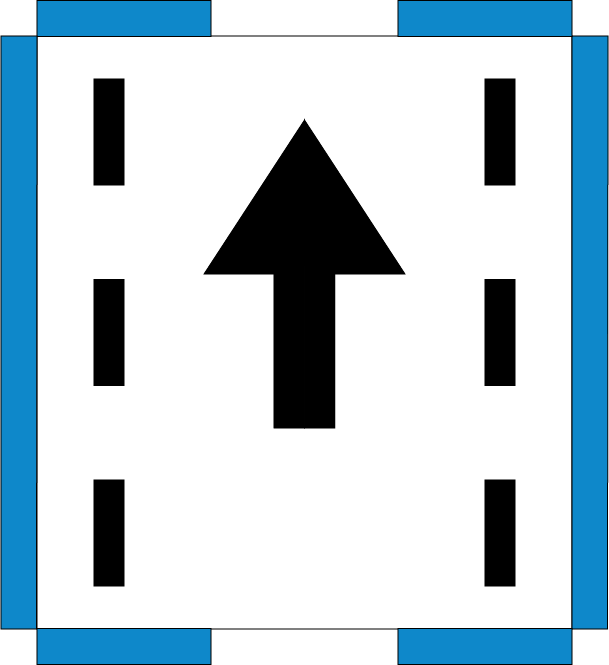
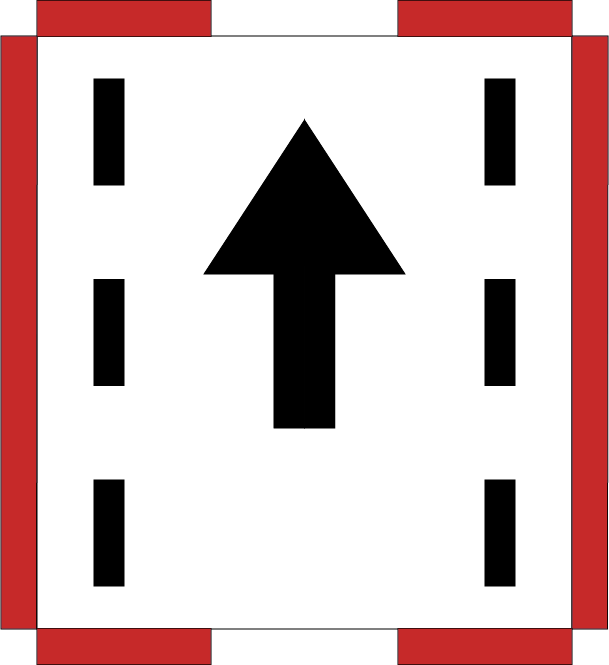
colours

Changed region(s): [[0.6552, 0.0, 0.9984, 1.0], [0.0, 0.0, 0.3744, 1.0]]

diff --git a/www/Dashboard.css b/www/Dashboard.css
@@ -13,7 +13,7 @@
 }
 
 body {
-    background-color: #ADADAD
+    background-color: #161616
 }
 
 .blink {
@@ -28,7 +28,7 @@ body {
 }
 
 .topPanel div {
-    background-color: #101828;
+    background-color: #161616;
 }
 
 .topPanel li {
@@ -39,8 +39,8 @@ body {
 }
 
 .topPanel ul {
-    background-color: #101828;
-    border-bottom: medium solid #3565bf;
+    background-color: #161616;
+    border-bottom: medium solid #C62828;
 }
 
 ul {
@@ -48,8 +48,8 @@ ul {
 }
 
 .dropdown {
-    background-color: #101828;
-    color: #3565bf;
+    background-color: #161616;
+    color: #C62828;
     border-radius: 0.1vw;
 }
 
@@ -59,12 +59,12 @@ ul {
     height: 5vw;
     width: 8vw;
     background: white;
-    color: #3565bf;
+    color: #C62828;
     text-align: center;
     line-height: 2vw;
     cursor: pointer;
-    border: 0vw solid #3565bf;
-    border-bottom: 1vw solid #3565bf;
+    border: 0vw solid #C62828;
+    border-bottom: 1vw solid #C62828;
     opacity: 0.85;
     margin: 0.5vw 0vw;
 }
@@ -80,8 +80,8 @@ ul {
 .timer {
     width: auto;
     font-weight: 600;
-    color: #3565bf;
-    background-color: #101828;
+    color: #C62828;
+    background-color: #161616;
 }
 
 #cycleTimer {
@@ -95,66 +95,66 @@ ul {
 }
 
 #topList {
-    border-bottom: medium solid #3565bf;
+    border-bottom: medium solid #C62828;
 }
 
 .sideList {
     vertical-align: middle;
     text-align: right;
-    color: #3565bf;
-    background-color: #101828;
+    color: #C62828;
+    background-color: #161616;
 }
 
 #Connection {
     color: red;
     font-weight: 700;
-    background-color: #101828;
+    background-color: #161616;
     font-size: 150%;
     width: 12vw;
     margin-right: 1vw;
 }
 
 #main-body {
-    background-color: #ADADAD;
+    background-color: #161616;
     display: inline-block;
     width: 50%;
-    border-right: medium solid #3565bf;
+    border-right: medium solid #C62828;
 }
 
 #main-body li {
     display: inline-block;
     vertical-align: top;
-    background-color: #ADADAD;
+    background-color: #161616;
 }
 
 #camera {
     float: left;
-    border-left: medium solid #3565bf;
-    border-bottom: medium solid #3565bf;
+    border-left: medium solid #C62828;
+    border-bottom: medium solid #C62828;
     display: inline-block;
     vertical-align: text-top;
     width: 50%;
-    background-color: #ADADAD;
+    background-color: #161616;
 }
 #robotState li {
-    border-right: medium solid #3565bf;
-    border-left: medium solid #3565bf;
+    border-right: medium solid #C62828;
+    border-left: medium solid #C62828;
     width: 18vw;
     height: 18vw;
-    background-color: #ADADAD;
+    background-color: #161616;
     align-items: center 
 }
 
 #robotState {
     width: auto;
     height: auto;
-    background-color: #ADADAD;
+    background-color: #161616;
     align-items: center;
     margin: 5vw 0 0 2vw;
 }
 #stateDiv {
-    border-right: medium solid #3565bf;
-    border-left: medium solid #3565bf;
+    border-right: medium solid #C62828;
+    border-left: medium solid #C62828;
     width: 18vw;
     height: 18vw;
     align-self: center;
@@ -165,39 +165,39 @@ ul {
     align-items: center;
     width: 18vw;
     height: 18vw;
-    background-color: #ADADAD;
+    background-color: #161616;
 }
 
 #compass {
     height: 12vw;
-    background-color: #ADADAD;
+    background-color: #161616;
     margin-top: 0px;
     margin-left: auto;
     margin-right: auto;
 }
 
 #pegPostion {
-    background-color: #ADADAD;
-    border: medium solid #3565bf;
+    background-color: #161616;
+    border: medium solid #C62828;
     margin: -4px 0 0 0;
     width: 50%;
     float: right;
 }
 
 #cameraName {
-    background-color: #ADADAD;
+    background-color: #161616;
     margin: 0 50vw 0 0;
-    border-left: medium solid #3565bf;
-    border-right: medium solid #3565bf;
+    border-left: medium solid #C62828;
+    border-right: medium solid #C62828;
     border-bottom-width: 0px;
     font-size: 250%;
     font-weight: 600;
     font-family: arial;
-    color: #3565bf;
+    color: #C62828;
     width: 100%;
 }
 
 #space {
-    border-bottom: medium solid #3565bf;
+    border-bottom: medium solid #C62828;
     margin: -4px 0 0 0;
 }
